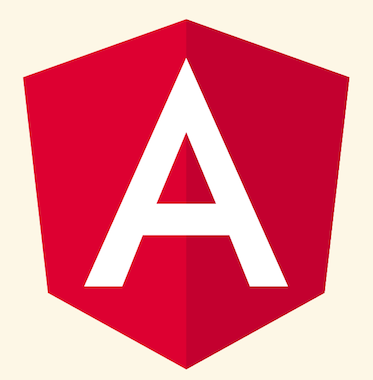
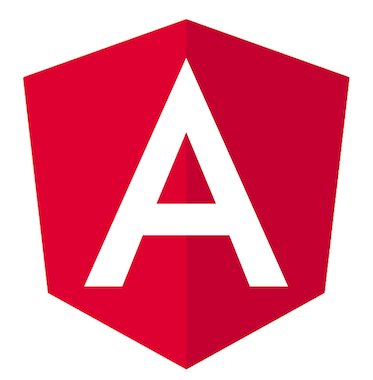
wip

diff --git a/index.html b/index.html
@@ -1,123 +1,147 @@
 <!doctype html>
 <html lang="en">
-	<head>
-		<meta charset="utf-8">
+<head>
+    <meta charset="utf-8">
 
-		<title>Angular Hack-jam</title>
+    <title>Angular Hack-jam</title>
 
-		<meta name="description" content="Angular Hack-jam">
+    <meta name="description" content="Angular Hack-jam">
 
-		<meta name="apple-mobile-web-app-capable" content="yes" />
-		<meta name="apple-mobile-web-app-status-bar-style" content="black-translucent" />
+    <meta name="apple-mobile-web-app-capable" content="yes"/>
+    <meta name="apple-mobile-web-app-status-bar-style" content="black-translucent"/>
 
-		<meta name="viewport" content="width=device-width, initial-scale=1.0, maximum-scale=1.0, user-scalable=no, minimal-ui">
+    <meta name="viewport"
+          content="width=device-width, initial-scale=1.0, maximum-scale=1.0, user-scalable=no, minimal-ui">
 
-		<link rel="icon" href="favicon.ico" type="image/x-icon"/>
-		<link rel="shortcut icon" href="favicon.ico" type="image/x-icon"/>
-		<link rel="stylesheet" href="css/reveal.css">
-		<link rel="stylesheet" href="css/theme/solarized.css" id="theme">
-		<link rel="stylesheet" href="css/custom.css">
+    <link rel="icon" href="favicon.ico" type="image/x-icon"/>
+    <link rel="shortcut icon" href="favicon.ico" type="image/x-icon"/>
+    <link rel="stylesheet" href="css/reveal.css">
+    <link rel="stylesheet" href="css/theme/solarized.css" id="theme">
+    <link rel="stylesheet" href="css/custom.css">
 
-		<!-- Code syntax highlighting -->
-		<link rel="stylesheet" href="lib/css/zenburn.css">
+    <!-- Code syntax highlighting -->
+    <link rel="stylesheet" href="lib/css/zenburn.css">
 
-		<!-- Printing and PDF exports -->
-		<script>
-			var link = document.createElement( 'link' );
-			link.rel = 'stylesheet';
-			link.type = 'text/css';
-			link.href = window.location.search.match( /print-pdf/gi ) ? 'css/print/pdf.css' : 'css/print/paper.css';
-			document.getElementsByTagName( 'head' )[0].appendChild( link );
-		</script>
+    <!-- Printing and PDF exports -->
+    <script>
+        var link = document.createElement('link');
+        link.rel = 'stylesheet';
+        link.type = 'text/css';
+        link.href = window.location.search.match(/print-pdf/gi) ? 'css/print/pdf.css' : 'css/print/paper.css';
+        document.getElementsByTagName('head')[0].appendChild(link);
+    </script>
 
-		<!--[if lt IE 9]>
-		<script src="lib/js/html5shiv.js"></script>
-		<![endif]-->
-	</head>
+    <!--[if lt IE 9]>
+    <script src="lib/js/html5shiv.js"></script>
+    <![endif]-->
+</head>
 
-	<body>
+<body>
 
-		<div class="reveal">
+<div class="reveal">
 
-			<div class="slides">
-				<section>
-					<img src="./images/angular/Angular.jpg" class="hero-logo" >
-					<h2>Ordina Angular HackJam</h2>
-					<h3>Getting hands on</h3>
-					<p><small>Tailored by: <br><i>Peter Eijgermans</i></small></p>
-					<p><small>Credits for the <a href="http://www.hackages.io/">Hackages team</a></small></p>
-				</section>
+    <div class="slides">
+        <section>
+            <img src="./images/angular/Angular.png" class="hero-logo">
+            <h2>Ordina Angular HackJam</h2>
+            <h3>Getting hands on</h3>
+            <p>
+                <small>Tailored by: <br><i>Peter Eijgermans</i></small>
+            </p>
+            <p>
+                <small>Credits for the <a href="http://www.hackages.io/">Hackages team</a></small>
+            </p>
+        </section>
 
-				<section data-markdown="markdown/01-intro.md"
-					data-transition="slide"
-					data-background-transition="zoom"
-					data-separator="^\n\n\n"
-					data-separator-vertical="^\n\n"
-					data-separator-notes="^Note:"
-					data-charset="iso-8859-15">
-				</section>
+        <section data-markdown="markdown/01-intro.md"
+                 data-transition="slide"
+                 data-background-transition="zoom"
+                 data-separator="^\n\n\n"
+                 data-separator-vertical="^\n\n"
+                 data-separator-notes="^Note:"
+                 data-charset="utf-8">
+        </section>
 
-				<section data-markdown="markdown/02-typescript.md"
-					data-transition="slide"
-					data-background-transition="zoom"
-					data-separator="^\n\n\n"
-					data-separator-vertical="^\n\n"
-					data-separator-notes="^Note:"
-					data-charset="iso-8859-15">
-				</section>
+        <section data-markdown="markdown/02-typescript.md"
+                 data-transition="slide"
+                 data-background-transition="zoom"
+                 data-separator="^\n\n\n"
+                 data-separator-vertical="^\n\n"
+                 data-separator-notes="^Note:"
+                 data-charset="utf-8">
+        </section>
 
+        <section data-markdown="markdown/09-afsluiting.md"
+                 data-transition="slide"
+                 data-background-transition="zoom"
+                 data-separator="^\n\n\n"
+                 data-separator-vertical="^\n\n"
+                 data-separator-notes="^Note:"
+                 data-charset="utf-8">
+        </section>
 
-				<section data-markdown="markdown/09-afsluiting.md"
-					data-transition="slide"
-					data-background-transition="zoom"
-					data-separator="^\n\n\n"
-					data-separator-vertical="^\n\n"
-					data-separator-notes="^Note:"
-					data-charset="iso-8859-15">
-				</section>
-
-				<section>
-					<h2>Thanks for joining</h2>
-					<img data-src="images/angular-es6-3-300x300.png" height="70%" width="70%">
-				</section>
-
-
-			</div>
-
-		</div>
-
-		<script src="lib/js/head.min.js"></script>
-		<script src="js/reveal.js"></script>
-
-		<script>
-
-			// Full list of configuration options available at:
-			// https://github.com/hakimel/reveal.js#configuration
-			Reveal.initialize({
-				controls: true,
-				progress: true,
-				history: true,
-				center: true, width: 1024,
+        <section>
+            <h2>Thanks for joining</h2>
+            <img data-src="images/angular-es6-3-300x300.png" height="70%" width="70%">
+        </section>
 
 
-				transition: 'zoom', // none/fade/slide/convex/concave/zoom
+    </div>
 
-				// Optional reveal.js plugins
+</div>
+
+<script src="lib/js/head.min.js"></script>
+<script src="js/reveal.js"></script>
+
+<script>
+
+    // Full list of configuration options available at:
+    // https://github.com/hakimel/reveal.js#configuration
+    Reveal.initialize({
+        controls: true,
+        progress: true,
+        history: true,
+        center: true, width: 1024,
 
 
-				dependencies: [
-					{ src: 'plugin/highlight/highlight.js', async: true, callback: function() { hljs.configure({  languages: ['java', 'bash', 'yaml', 'docker'] }); hljs.initHighlighting();hljs.initHighlightingOnLoad(); } },
-					{ src: 'lib/js/classList.js', condition: function() { return !document.body.classList; } },
-					{ src: 'plugin/markdown/marked.js', condition: function() { return !!document.querySelector( '[data-markdown]' ); }, callback: function() { marked.setOptions({  }); } },
-					{ src: 'plugin/markdown/markdown.js', condition: function() { return !!document.querySelector( '[data-markdown]' ); } },
-					{ src: 'plugin/zoom-js/zoom.js', async: true },
-					{ src: 'plugin/menu/menu.js', async: true },
-					{ src: 'plugin/search/search.js', async: true },
-					{ src: 'plugin/notes/notes.js', async: true }
-				]
-			});
+        transition: 'zoom', // none/fade/slide/convex/concave/zoom
 
-		</script>
+        // Optional reveal.js plugins
 
-	</body>
+
+        dependencies: [
+            {
+                src: 'plugin/highlight/highlight.js', async: true, callback: function () {
+                hljs.configure({languages: ['java', 'bash', 'yaml', 'docker']});
+                hljs.initHighlighting();
+                hljs.initHighlightingOnLoad();
+            }
+            },
+            {
+                src: 'lib/js/classList.js', condition: function () {
+                return !document.body.classList;
+            }
+            },
+            {
+                src: 'plugin/markdown/marked.js', condition: function () {
+                return !!document.querySelector('[data-markdown]');
+            }, callback: function () {
+                marked.setOptions({});
+            }
+            },
+            {
+                src: 'plugin/markdown/markdown.js', condition: function () {
+                return !!document.querySelector('[data-markdown]');
+            }
+            },
+            {src: 'plugin/zoom-js/zoom.js', async: true},
+            {src: 'plugin/menu/menu.js', async: true},
+            {src: 'plugin/search/search.js', async: true},
+            {src: 'plugin/notes/notes.js', async: true}
+        ]
+    });
+
+</script>
+
+</body>
 </html>

diff --git a/markdown/02-typescript.md b/markdown/02-typescript.md
@@ -1,14 +1,22 @@
 ## TypeScript
 *Angular is built on TypeScript!*
 
-![logo](images/TypeScript.png)
+![logo](images/typescript-logo.png)
 
-- Angular 2 is built in a Javascript-like language called TypeScript.
-- You might be skeptical of using a new language just for Angular, but it turns out, there are a lot of
-great reasons to use TypeScript instead of plain Javascript.
-- TypeScript isn’t a completely new language, it’s a superset of ES6. If we write ES6 code, it’s perfectly valid and compilable TypeScript code. Here’s a diagram that shows the relationship between the languages:
 
-### What do we get with TypeScript?
+## What is TypeScript?
+
+![logo](images/typescript-es6-es5.png)
+
+Note:
+- Notes
+  - TypeScript is not a completely new language, based on ES5/6
+  - If we write ES5/6 code, it’s perfectly valid and compilable TypeScript code. 
+  - TypeScript komt sterk overeen met Java/C#
+- [Rangle blog: typescript met Angular 1](http://blog.rangle.io/write-angular-2-style-code-now-typescript-decorators-components-and-flux-for-angular-1-x-applications)
+
+
+## What do we get with TypeScript?
 
 There are five big improvements that TypeScript bring over ES5:
 - types
@@ -17,4 +25,49 @@ There are five big improvements that TypeScript bring over ES5:
 - imports
 - language utilities (e.g. destructuring)
 
-### Types
+
+## Types
+
+The new TypeScript syntax is a natural evolution from ES5:
+- variables optionally provide the variable type along with its name
+- functions can use types for arguments and return values
+
+```
+var name: string;
+
+function greetText(name: string): string {
+   return "Hello " + name;
+}
+```
+
+
+### Built-in types
+
+- String
+- Number
+- Boolean
+- Arrays, using 
+  - Array<string>
+  - string[]
+- Enums
+- Any
+- Void
+
+
+## Classes,  interfaces and inheritance 
+```
+interface IBookListComponent {
+}
+
+class BookListComponent implements IBookListComponent {
+          books:  String[];
+
+          constructor() {
+              this.books =[‘book1’, ‘book2’]
+     }  
+}
+
+```
+
+
+## Arrow functions

diff --git a/markdown/09-afsluiting.md b/markdown/09-afsluiting.md
@@ -6,10 +6,11 @@
 Looking for an opinionated guide to Angular syntax, conventions, and application structure? 
 Step right in! The style guide presents preferred conventions and, as importantly, explains why.
 
-https://angular.io/docs/ts/latest/guide/style-guide.html
+- https://angular.io/docs/ts/latest/guide/style-guide.html
 
 
-## NG-Book 2
-The complete book on Angular, by http://fullstack.io
+## [NG-Book 2](https://www.ng-book.com/2/)
 
-https://www.ng-book.com/2/
+![The complete book on Angular, by http://fullstack.io](images/angular/ng-book-2.jpg)
+
+

diff --git a/markdown/01-intro.md b/markdown/01-intro.md
@@ -13,5 +13,5 @@
 ||
 | ------------- |:-------------
 | ![headshot](images/us/erik-berndt.jpg) | Erik-Berndt Scheper <!-- .element: style="vertical-align: middle;" -->
-| ![headshot](images/us/thomas.jpg)      | Thomas Lodewi**jk     <!-- .element: style="vertical-align: middle;" -->
+| ![headshot](images/us/thomas.jpg)      | Thomas Lodewijk     <!-- .element: style="vertical-align: middle;" -->
 | ![headshot](images/us/peter.jpg)       | Peter Eijgermans    <!-- .element: style="vertical-align: middle;" -->
